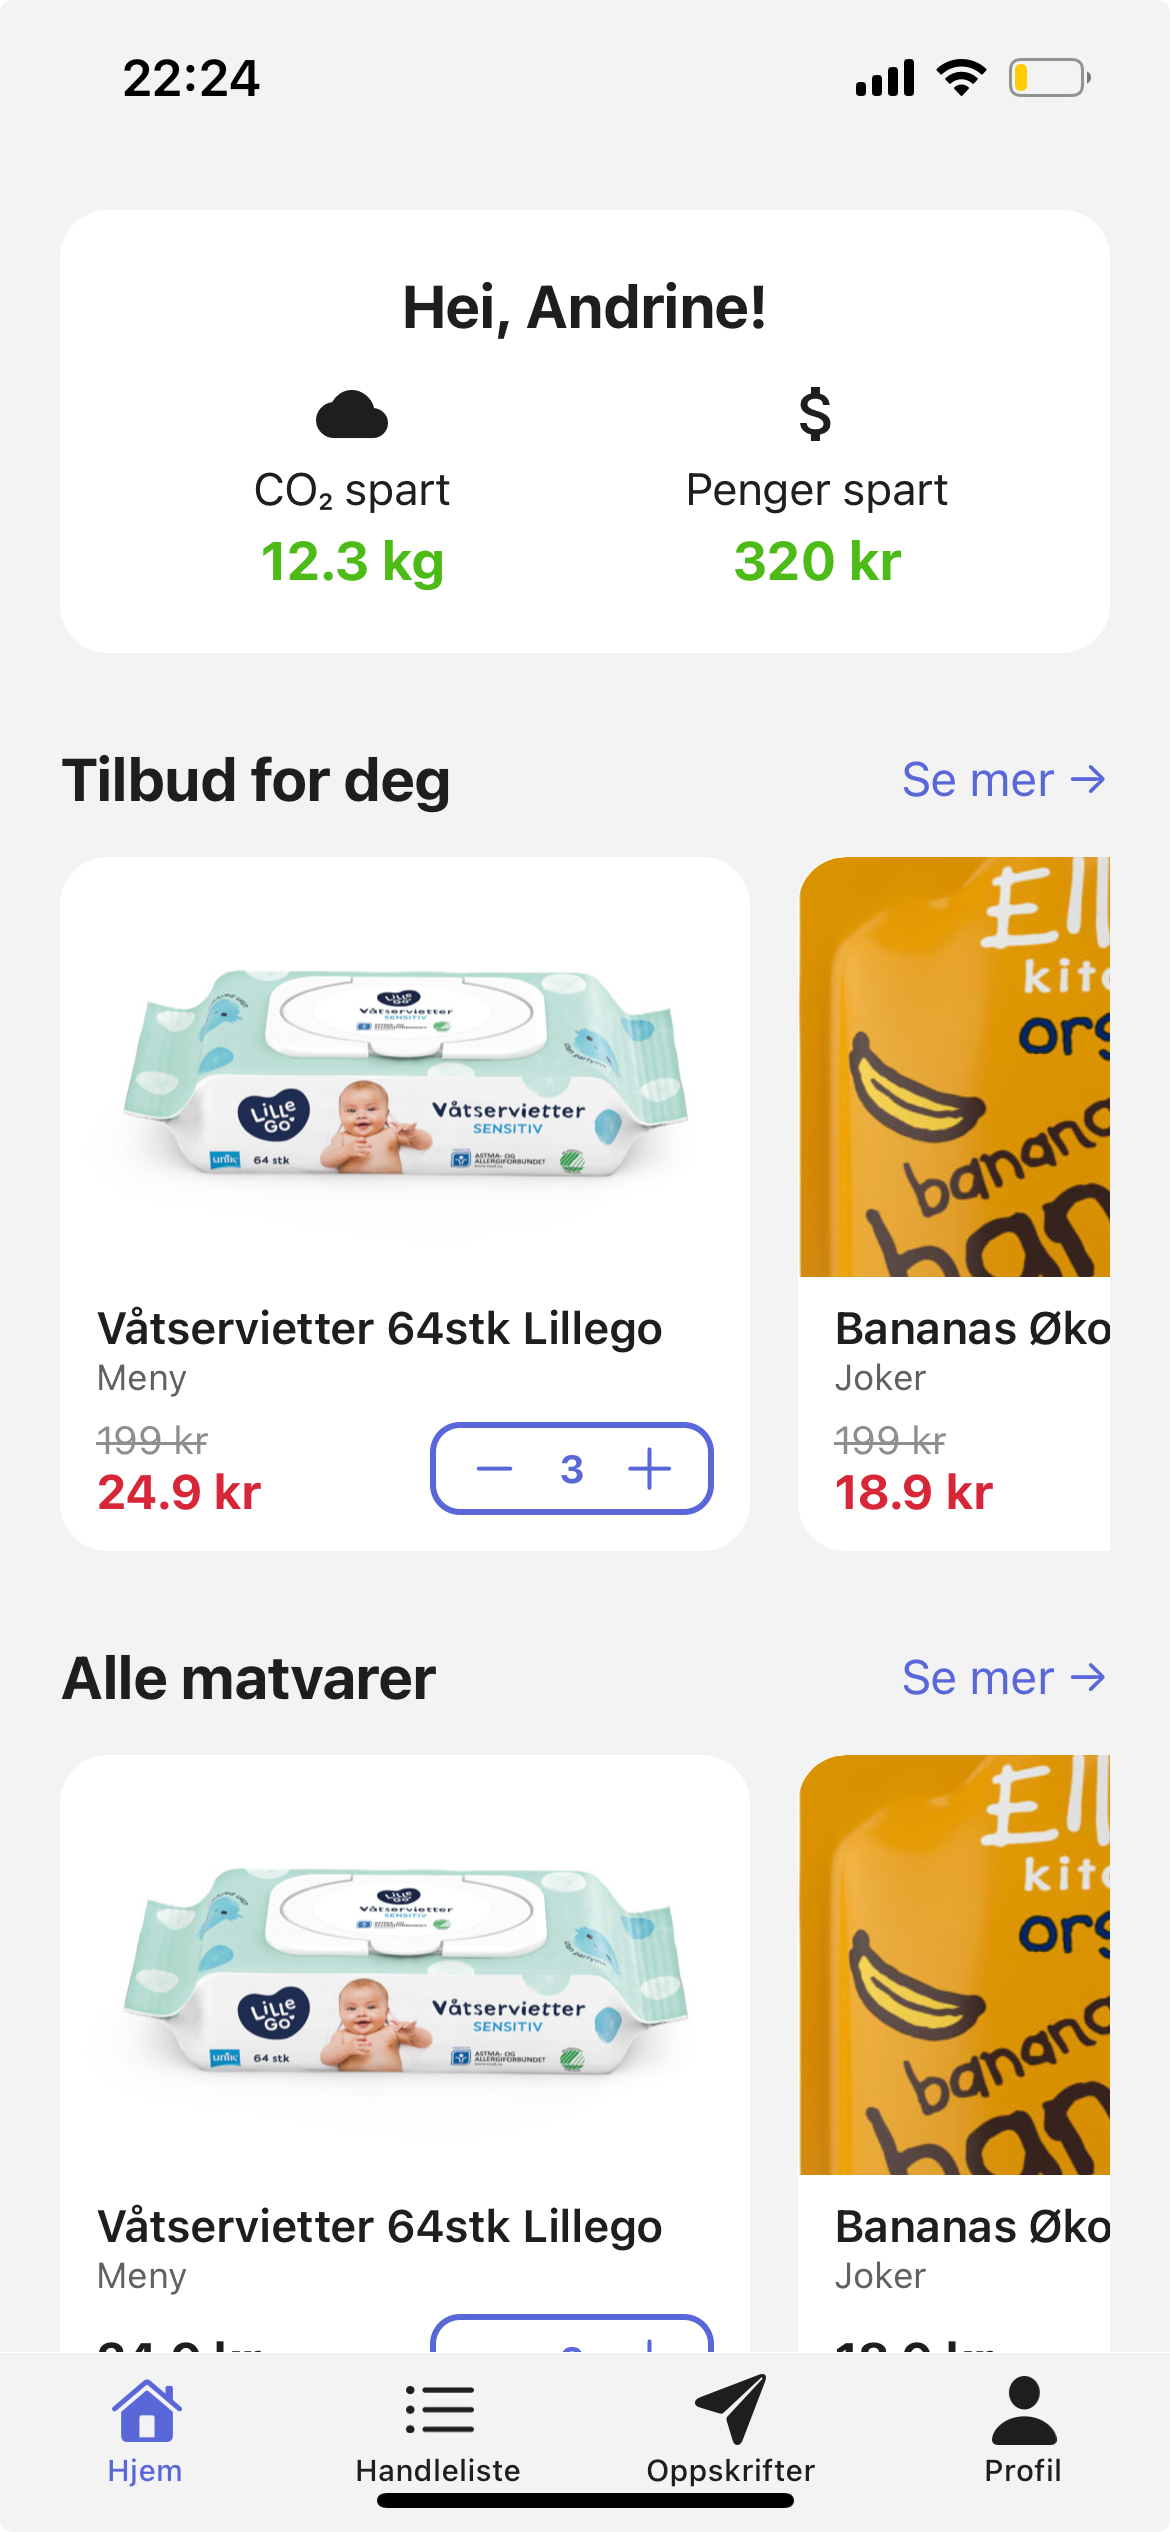
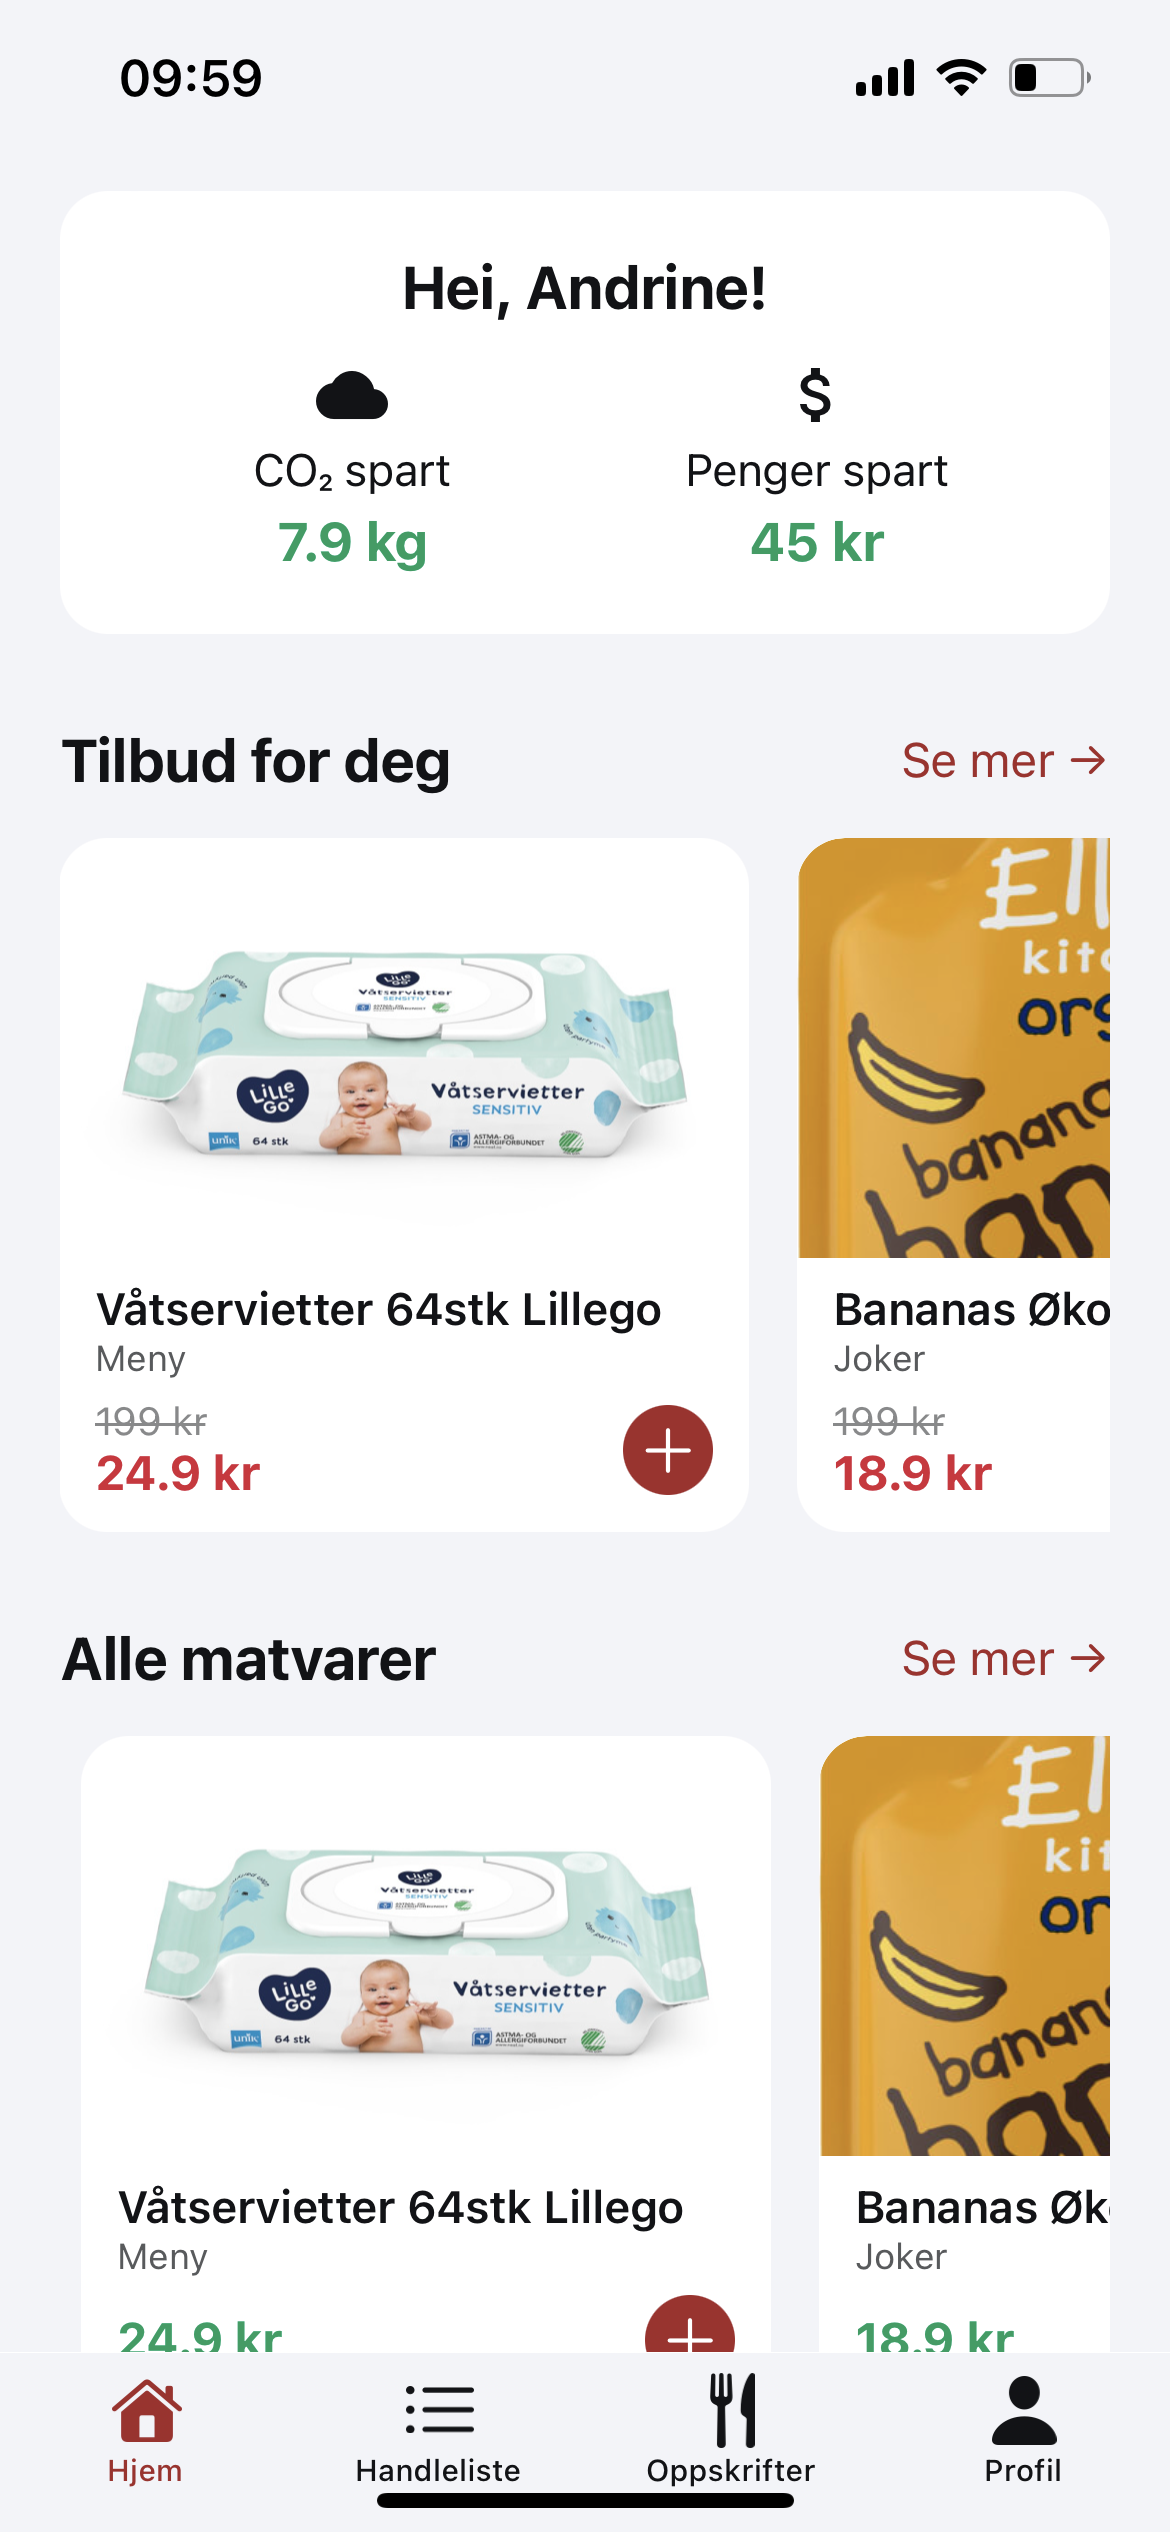
feat: new download buttons and bentogrid in web-client

diff --git a/web-client/app/page.tsx b/web-client/app/page.tsx
@@ -5,7 +5,7 @@ import { useRef } from "react";
 import { CalendarIcon, FileTextIcon } from "@radix-ui/react-icons";
 import { BellIcon, Share2Icon } from "lucide-react";
 
-import { Calendar } from "@/components/ui/calendar";
+import { MyDatePicker } from "@/components/ui/MyDatePicker";
 import { cn } from "@/lib/utils";
 
 import { BentoCard, BentoGrid } from "@/registry/magicui/bento-grid";
@@ -23,25 +23,18 @@ import { useTheme } from "next-themes";
 // Example files array
 const files = [
   {
-    name: "bitcoin.pdf",
-    body: "Bitcoin is a cryptocurrency invented in 2008 by an unknown person or group of people using the name Satoshi Nakamoto.",
+    name: "Sorterer etter butikker",
+    body: "Du kan enkelt se hva du skal handle i hver enkelt butikk",
   },
   {
-    name: "finances.xlsx",
-    body: "A spreadsheet or worksheet is a file made of rows and columns that help sort data, arrange data easily, and calculate numerical data.",
+    name: "Se butikker nær deg",
+    body: "Kartfunksjon som viser butikker nær deg",
   },
   {
-    name: "logo.svg",
-    body: "Scalable Vector Graphics is an Extensible Markup Language-based vector image format for two-dimensional graphics with support for interactivity and animation.",
+    name: "Berenger penger og CO2 spart",
+    body: "Med en enkelt klikk beregnes hvor mye penger du har spart samt CO2 spart avhengig om du husket pose eller ikke",
   },
-  {
-    name: "keys.gpg",
-    body: "GPG keys are used to encrypt and decrypt email, files, directories, and whole disk partitions and to authenticate messages.",
-  },
-  {
-    name: "seed.txt",
-    body: "A seed phrase, seed recovery phrase or backup seed phrase is a list of words which store all the information needed to recover Bitcoin funds on-chain.",
-  },
+  
 ];
 
 export default function Home() {
@@ -52,12 +45,72 @@ export default function Home() {
 
   const features = [
     {
-      Icon: FileTextIcon,
-      name: "Save your files",
-      description: "We automatically save your files as you type.",
+      Icon: CalendarIcon,
+      name: "Ukens tilbud",
+      description: "Hold deg oppdatert på de aller ferskeste og rimeligste ukestilbudene",
+      className: "col-span-3 lg:col-span-1 relative", // make sure to set relative here
       href: "#",
-      cta: "Learn more",
+      cta: "Se mer",
+      style: { backgroundColor: "#f3f4f8" },
+      background: (
+        <div className="absolute inset-0 flex items-center justify-center">
+          <div
+            className="origin-center"
+            style={{ transform: "scale(0.7)", filter: "blur(0.5px)" }} // adjust the blur amount as needed
+          >
+            <MyDatePicker />
+          </div>
+        </div>
+      ),
+    },
+    {
+      Icon: BellIcon,
+      name: "Penger og CO2 Spart!",
+      description: "Se hvor mye penger og CO₂ du sparer basert på hva du kjøper og om du husker egen pose",
+      href: "#",
+      cta: "Se mer",
+      className: "col-span-3 lg:col-span-2 relative",
+      style: { backgroundColor: "#f3f4f8" },
+      background: (
+        <div className="absolute inset-0 flex justify-center items-center">
+          <img
+            src="/spart.jpeg"
+            alt="Description of the image"
+            className="object-cover"
+            style={{ width: "550px", height: "200px" }}
+          />
+        </div>
+      ),
+    },
+    {
+      Icon: Share2Icon,
+      name: "Personlige oppskrifter",
+      description: "Få skreddersydde oppskrifter for deg",
+      href: "#",
+      cta: "Se mer",
+      className: "col-span-3 lg:col-span-2",
+      style: { backgroundColor: "#f3f4f8" },
+      // Provide the required refs for AnimatedBeam
+      background: (
+        <div className="absolute inset-0 flex justify-center items-center">
+          <img
+            src="/rec.jpeg"
+            alt="Description of the image"
+            className="object-cover"
+            style={{ width: "600px", height: "200px", filter: "blur(0.5px)" }}
+            
+          />
+        </div>
+      ),
+    },
+    {
+      Icon: FileTextIcon,
+      name: "Handleliste",
+      description: "Lag handleliste med de billigste produktene per butikk",
+      href: "#",
+      cta: "Se mer",
       className: "col-span-3 lg:col-span-1",
+      style: { backgroundColor: "#f3f4f8" },
       background: (
         <Marquee
           pauseOnHover
@@ -84,66 +137,6 @@ export default function Home() {
             </figure>
           ))}
         </Marquee>
-      ),
-    },
-    {
-      Icon: BellIcon,
-      name: "Notifications",
-      description: "Get notified when something happens.",
-      href: "#",
-      cta: "Learn more",
-      className: "col-span-3 lg:col-span-2",
-      // Provide children so AnimatedList doesn't complain
-      background: (
-        <AnimatedListDemo className="absolute right-2 top-4 h-[300px] w-full scale-75 border-none transition-all duration-300 ease-out [mask-image:linear-gradient(to_top,transparent_10%,#000_100%)] group-hover:scale-90">
-          <div className="p-4 bg-white/10 rounded-lg text-white">Hello!</div>
-          <div className="p-4 bg-white/10 rounded-lg text-white">Another item</div>
-        </AnimatedListDemo>
-      ),
-    },
-    {
-      Icon: Share2Icon,
-      name: "Integrations",
-      description: "Supports 100+ integrations and counting.",
-      href: "#",
-      cta: "Learn more",
-      className: "col-span-3 lg:col-span-2",
-      // Provide the required refs for AnimatedBeam
-      background: (
-        <section ref={containerRef} className="relative w-full h-full">
-          <div
-            ref={fromRef}
-            className="absolute left-4 top-4 w-6 h-6 bg-green-500 rounded-full"
-            title="From"
-          />
-          <div
-            ref={toRef}
-            className="absolute right-4 bottom-4 w-6 h-6 bg-blue-500 rounded-full"
-            title="To"
-          />
-
-          <AnimatedBeamMultipleOutputDemo
-            className="absolute right-2 top-4 h-[300px] border-none transition-all duration-300 ease-out [mask-image:linear-gradient(to_top,transparent_10%,#000_100%)] group-hover:scale-105"
-            containerRef={containerRef}
-            fromRef={fromRef}
-            toRef={toRef}
-          />
-        </section>
-      ),
-    },
-    {
-      Icon: CalendarIcon,
-      name: "Calendar",
-      description: "Use the calendar to filter your files by date.",
-      className: "col-span-3 lg:col-span-1",
-      href: "#",
-      cta: "Learn more",
-      background: (
-        <Calendar
-          mode="single"
-          selected={new Date(2022, 4, 11, 0, 0, 0)}
-          className="absolute right-0 top-10 origin-top scale-75 rounded-md border transition-all duration-300 ease-out [mask-image:linear-gradient(to_top,transparent_40%,#000_100%)] group-hover:scale-90"
-        />
       ),
     },
   ];

diff --git a/web-client/components/ui/Herosection.tsx b/web-client/components/ui/Herosection.tsx
@@ -1,26 +1,26 @@
 "use client"
 import { AuroraText } from "@/registry/magicui/aurora-text";
 import { motion } from "framer-motion";
-import iPhoneImage from "@/assets/iphone.png"; // Ensure you have the correct path to your image
 import Iphone15Pro from "@/registry/magicui/iphone-15-pro";
-import { TextAnimate } from "@/registry/magicui/text-animate";
-import { RainbowButton } from "@/registry/magicui/rainbow-button";
-import { ShimmerButton } from "../magicui/shimmer-button";
+import { Applegoogle } from "./Applegoogle";
 
 export default function HeroSection() {
   return (
     <section className="flex mb-20 flex-col-reverse items-center justify-between gap-8 md:flex-row">
-      {/* Left Side: Text */}
+      {/* Venstre side: Tekst */}
       <div className="flex-1">
         <h1 className="text-7xl font-bold">
           Finn dine <AuroraText className="text-7xl">tilbud</AuroraText>
         </h1>
-          <p className="mt-4 text-2xl text-gray-700">Oppdag de beste tilbudene i dag!</p>
-            
-            <ShimmerButton className="mt-4">Last ned gratis</ShimmerButton>
+        
+        <p className="mt-4 text-2xl text-gray-700 mb-6">
+          Oppdag de beste tilbudene i dag!
+        </p>
+        
+        <Applegoogle />
       </div>
 
-      {/* Right Side: iPhone Image */}
+      {/* Høyre side: iPhone-bilde */}
       <motion.div
         className="flex-1 flex justify-center"
         initial={{ opacity: 0, x: 50 }}
@@ -28,10 +28,9 @@ export default function HeroSection() {
         transition={{ duration: 0.5 }}
       >
         <Iphone15Pro 
-            className="size-150 z-1"
-            src="/app.png"  // Replace with the correct image path
-                        // Adjust width as desired
-         />
+          className="size-150 z-1"
+          src="/app.png" 
+        />
       </motion.div>
     </section>
   );

diff --git a/web-client/components/ui/Applegoogle.tsx b/web-client/components/ui/Applegoogle.tsx
@@ -1,0 +1,33 @@
+import React from "react";
+
+export const Applegoogle = () => {
+  return (
+    <div className="flex flex-col gap-4"> 
+      {/* Apple App Store badge link */}
+      <a
+        href="https://www.apple.com/no/app-store/"
+        target="_blank"
+        rel="noopener noreferrer"
+      >
+        <img
+          src="apple.png"
+          alt="Download on the App Store"
+          className="h-12"
+        />
+      </a>
+
+      {/* Google Play badge link */}
+      <a
+        href="https://play.google.com/store/games"
+        target="_blank"
+        rel="noopener noreferrer"
+      >
+        <img
+          src="googleplay.png"
+          alt="Get it on Google Play"
+          className="h-12"
+        />
+      </a>
+    </div>
+  );
+}

diff --git a/web-client/app/globals.css b/web-client/app/globals.css
@@ -57,7 +57,23 @@
       background-position: 200%;
     }
   }
-}
+
+  --animate-shimmer-slide: shimmer-slide var(--speed) ease-in-out infinite alternate;
+
+  --animate-spin-around: spin-around calc(var(--speed) * 2) infinite linear
+;
+  @keyframes shimmer-slide {
+  to {
+    transform: translate(calc(100cqw - 100%), 0);}}
+  @keyframes spin-around {
+  0% {
+    transform: translateZ(0) rotate(0);}
+  15%, 35% {
+    transform: translateZ(0) rotate(90deg);}
+  65%, 85% {
+    transform: translateZ(0) rotate(270deg);}
+  100% {
+    transform: translateZ(0) rotate(360deg);}}}
 
 :root {
   --radius: 0.625rem;

diff --git a/web-client/components/ui/MyDatePicker.tsx b/web-client/components/ui/MyDatePicker.tsx
@@ -1,0 +1,21 @@
+"use client"
+
+import * as React from "react"
+import { ChevronLeft, ChevronRight } from "lucide-react"
+import { DayPicker } from "react-day-picker"
+import "react-day-picker/style.css";
+
+import { cn } from "@/lib/utils"
+import { buttonVariants } from "@/components/ui/button"
+
+export function MyDatePicker() {
+  
+
+  return (
+    <DayPicker
+      animate
+      mode="single"
+      
+    />
+  );
+}

diff --git a/app-client/constants/Colors.ts b/app-client/constants/Colors.ts
@@ -1,6 +1,6 @@
 const Colors: Record<'light' | 'dark', { background: string; text: string; primary: string; accent: string; card: string }> = {
   light: {
-    background: '#f8f5e1', 
+    background: '#f3f4f8', //#f8f5e1
     text: '#121417',
     primary: '#a52a2a', //+ knapper
     accent: '#009e60',  //spareprisen
